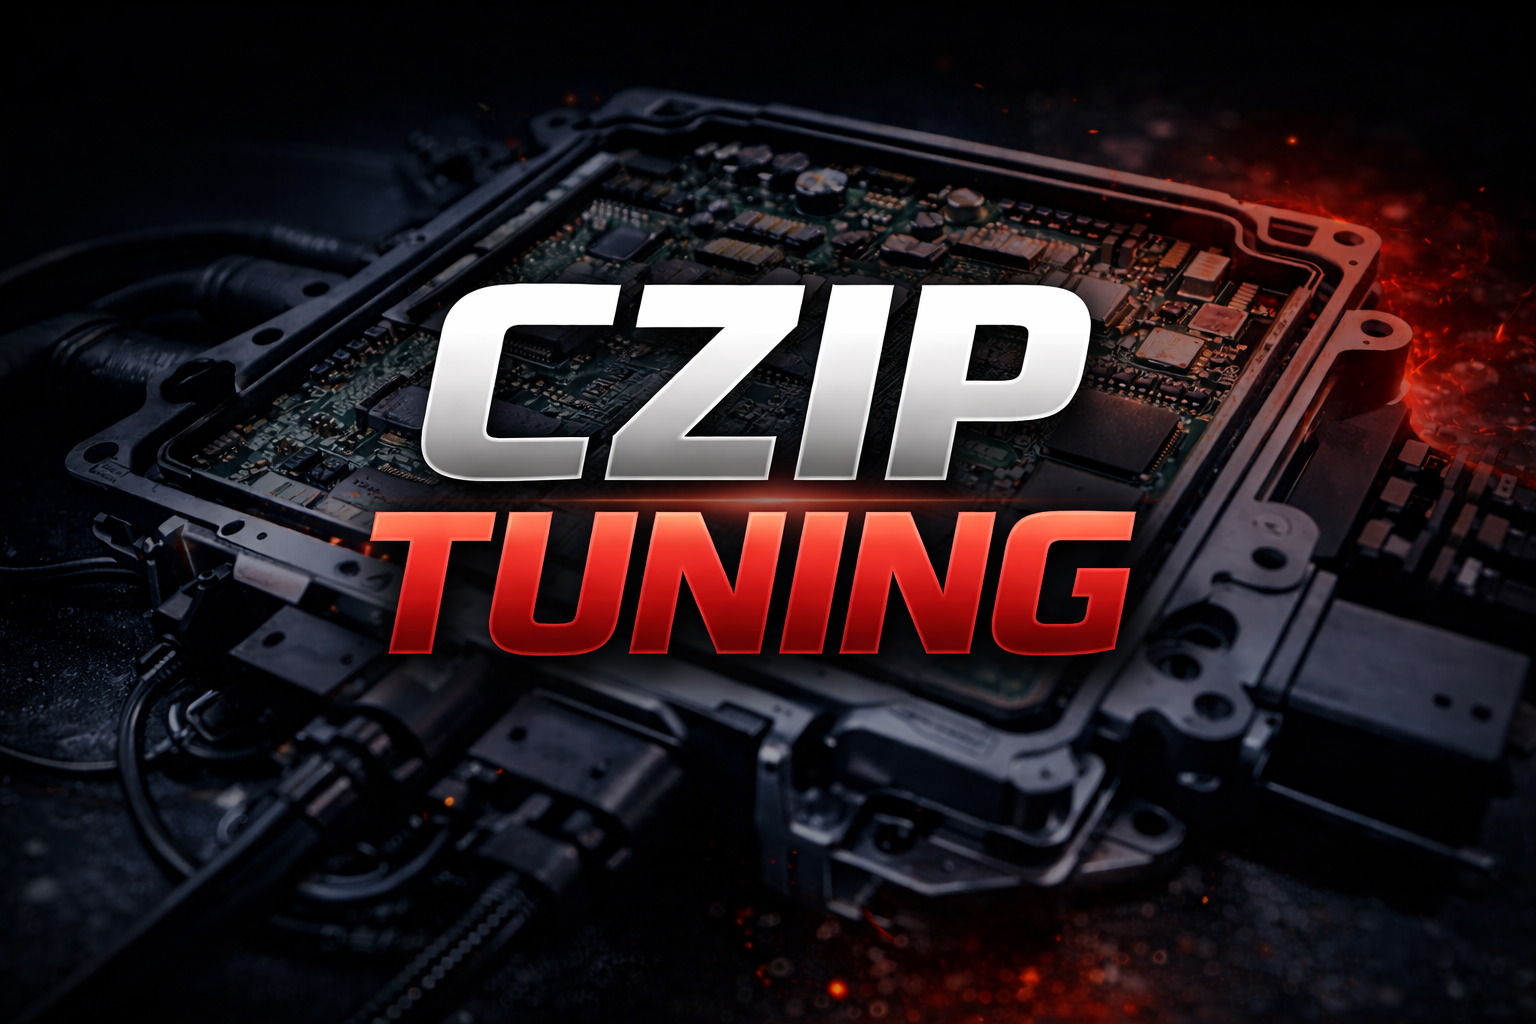
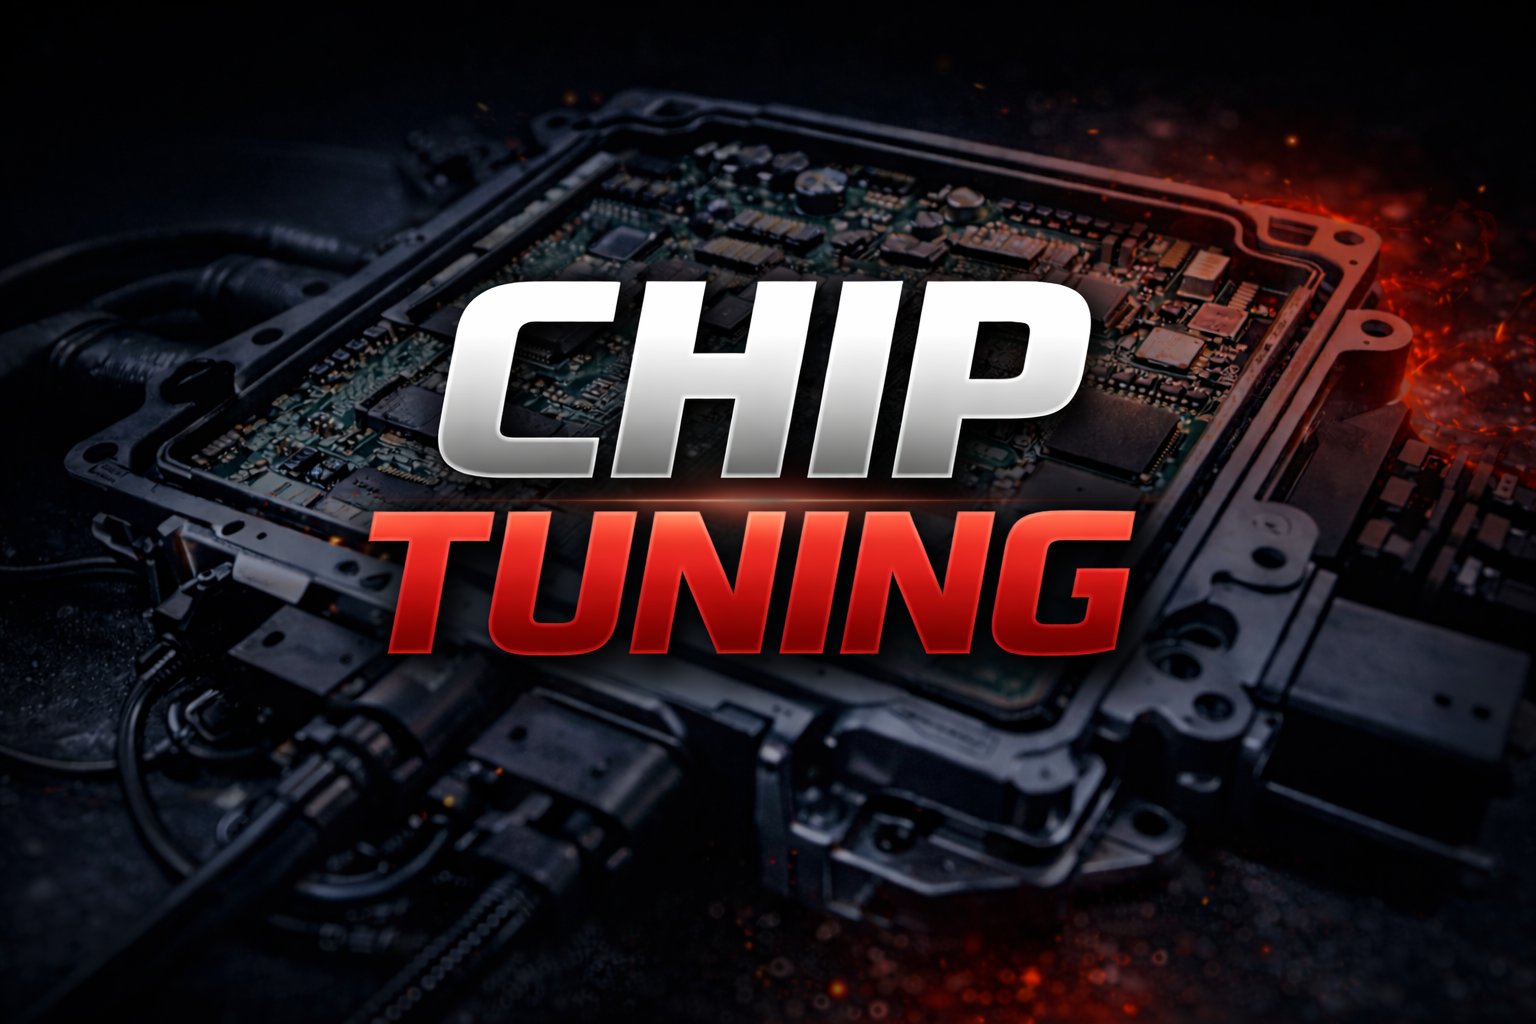
chip tuning fix

diff --git a/src/pages/performance.vue b/src/pages/performance.vue
@@ -181,12 +181,17 @@
         </v-row>
       </v-col>
 
-      <v-col class="d-flex" cols="12" md="6">
+      <v-col
+        class="pa-0 pa-md-3 d-flex"
+        cols="12"
+        md="6"
+      >
         <v-img
-          class="elevation-4 mx-auto rounded-lg"
-          cover
+          class="elevation-4 rounded-0 rounded-md-lg"
+          contain
           src="@/assets/performance/start_stop.png"
-          style="min-height: 350px; height: 100%;"
+          style="min-height: 300px;"
+          width="100%"
         />
       </v-col>
     </v-row>
